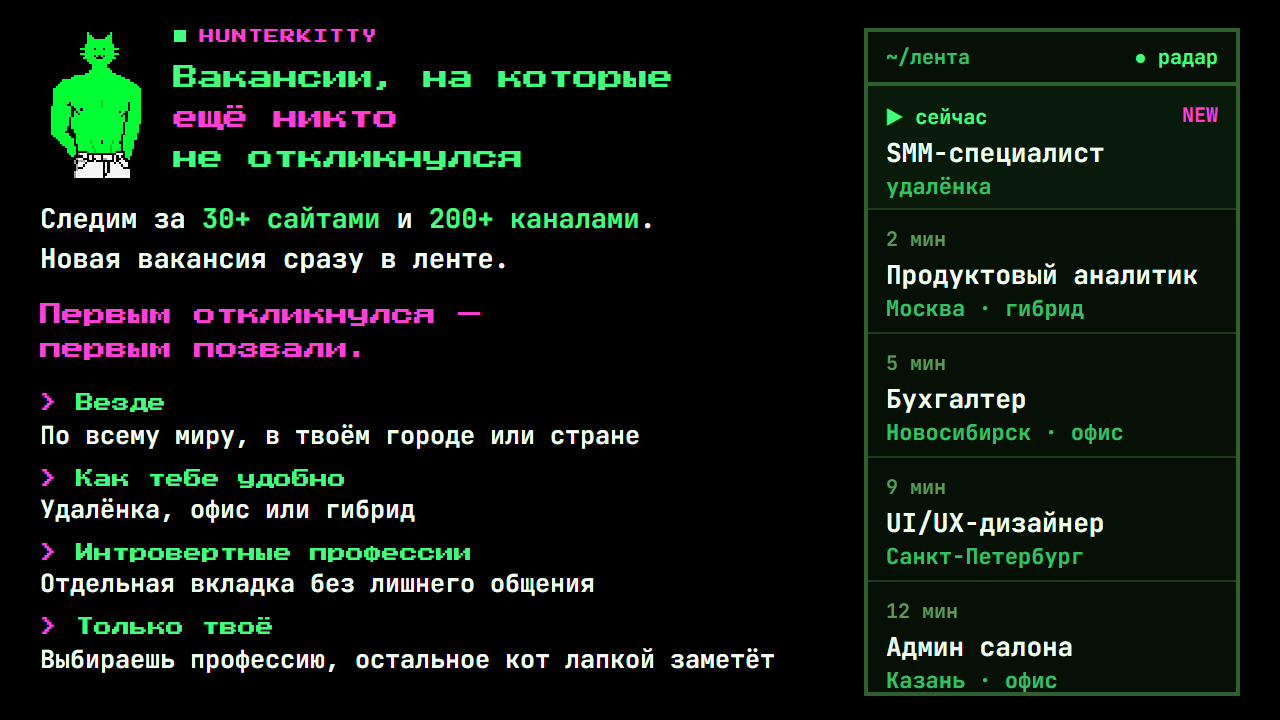
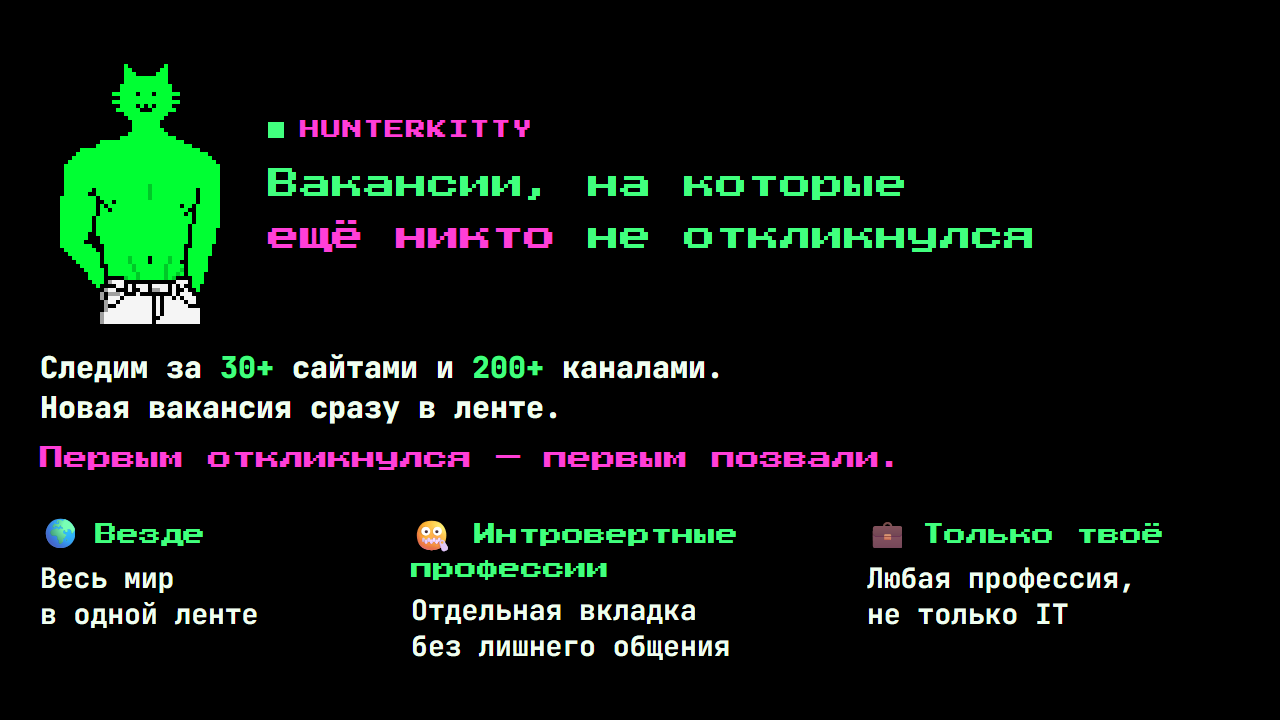
README: обложка бота с настоящим логотипом

diff --git a/README.md b/README.md
@@ -44,7 +44,7 @@
 
 <table>
   <tr>
-    <td align="center"><img src="screenshots/greeting.png" width="250"><br><b>🐾 Приветствие</b></td>
+    <td align="center"><img src="screenshots/greeting.png" width="250"><br><b>🐾 Обложка бота</b></td>
     <td align="center"><img src="screenshots/start.png" width="250"><br><b>🔎 Старт: кем и где</b></td>
   </tr>
 </table>
